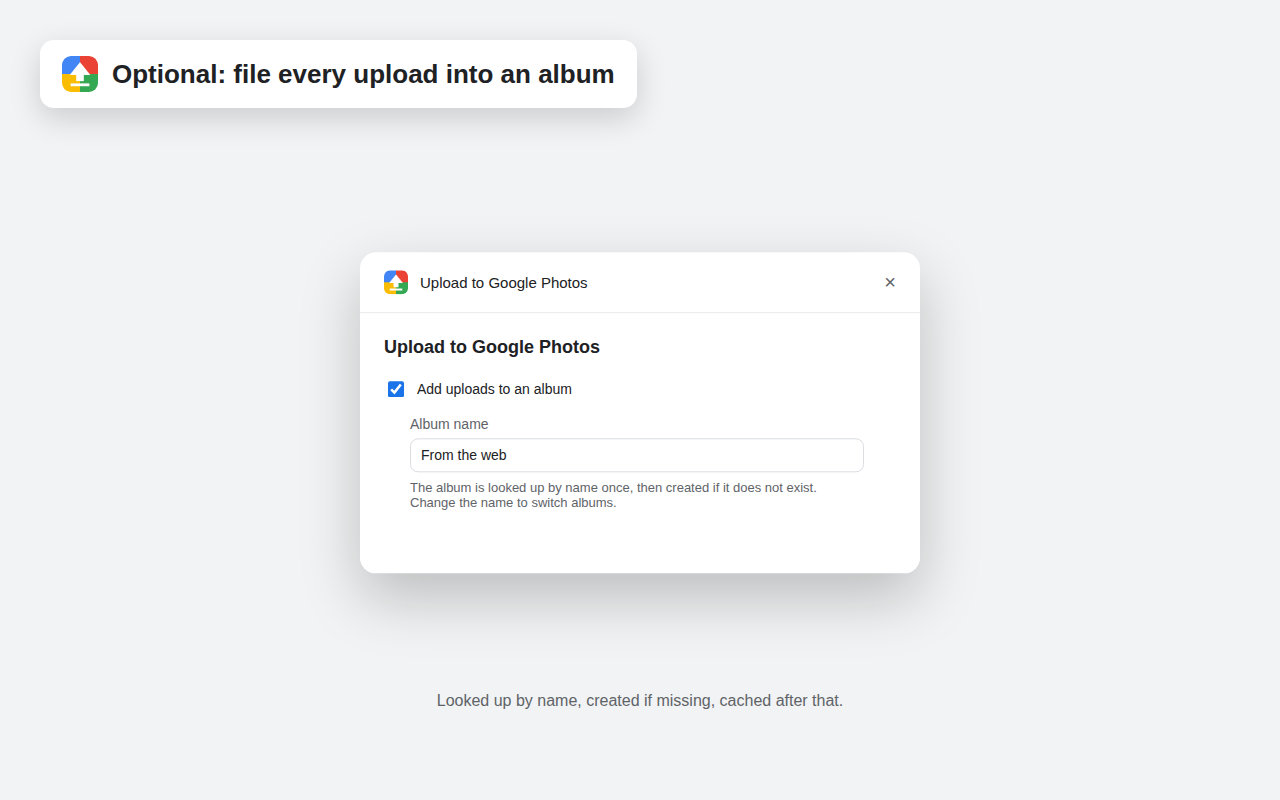
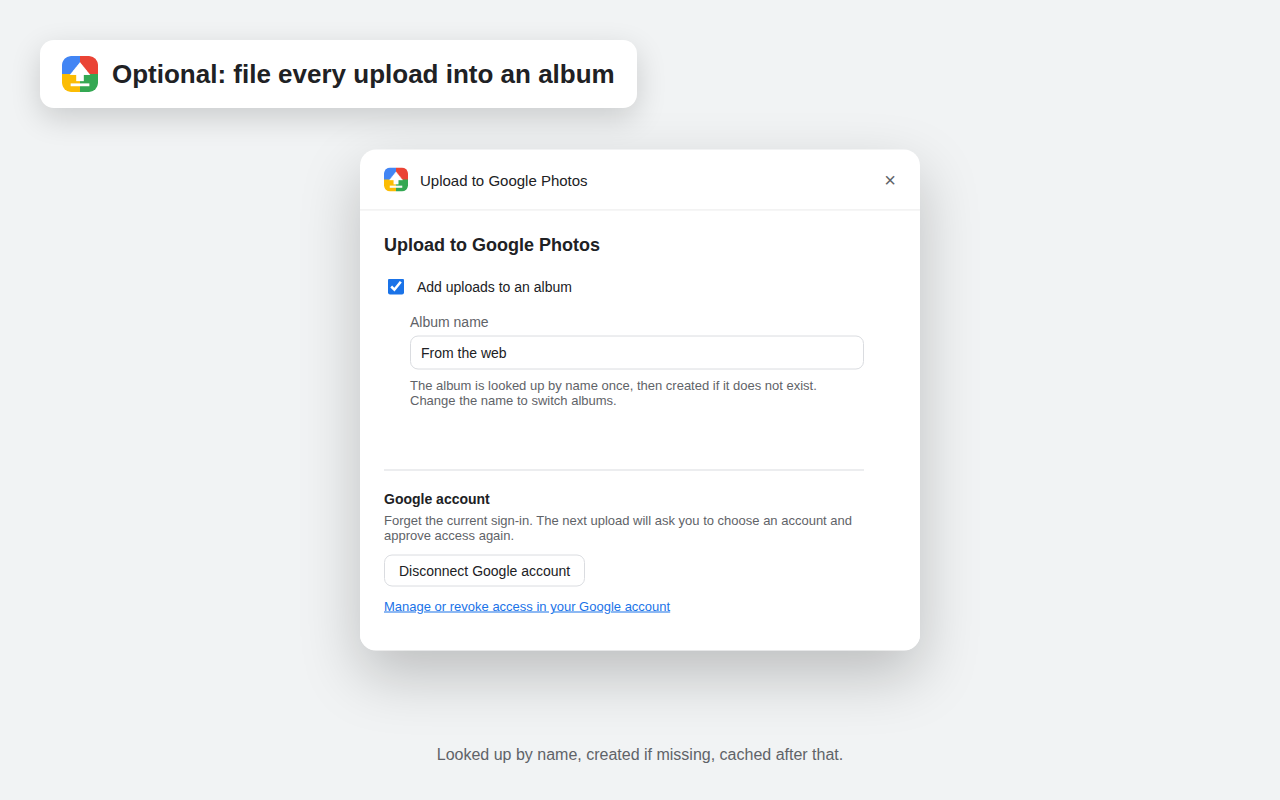
Options: "Disconnect Google account" button
Clears Chrome's cached tokens (chrome.identity.clearAllCachedAuthTokens)
so the next upload shows the account chooser and consent screen again,
with a link to the Google account page for revoking the grant itself.
chrome://identity-internals no longer exists, so this is the only
user-facing way to re-trigger consent. Store screenshot 4 regenerated
to show it.

Claude-Session: https://claude.ai/code/session_017Sx8ma6MN5wVncfmhbF29b

diff --git a/src/options.js b/src/options.js
@@ -7,6 +7,7 @@ const enabledBox = document.getElementById('albumEnabled');
 const nameInput = document.getElementById('albumName');
 const field = document.getElementById('albumField');
 const status = document.getElementById('status');
+const disconnectButton = document.getElementById('disconnect');
 
 function applyStrings() {
   document.title = STRINGS.options.pageTitle;
@@ -15,6 +16,24 @@ function applyStrings() {
   document.getElementById('albumNameLabel').textContent = STRINGS.options.albumNameLabel;
   document.getElementById('albumHint').textContent = STRINGS.options.albumHint;
   nameInput.placeholder = STRINGS.options.albumNamePlaceholder;
+  document.getElementById('accountHeading').textContent = STRINGS.options.accountHeading;
+  document.getElementById('accountHint').textContent = STRINGS.options.accountHint;
+  disconnectButton.textContent = STRINGS.options.disconnect;
+  document.getElementById('manageLink').textContent = STRINGS.options.manageLink;
+}
+
+// Drops every token Chrome has cached for this extension. It does not revoke
+// the grant on Google's side (that needs the account page, linked below), but
+// the service worker treats a missing token as "sign in again", which is what
+// people want when switching accounts or re-testing the consent screen.
+async function disconnect() {
+  disconnectButton.disabled = true;
+  try {
+    await chrome.identity.clearAllCachedAuthTokens();
+    showStatus(STRINGS.options.disconnected, false);
+  } finally {
+    disconnectButton.disabled = false;
+  }
 }
 
 function refreshFieldState() {
@@ -53,6 +72,7 @@ async function save() {
 
 enabledBox.addEventListener('change', () => { refreshFieldState(); save(); });
 nameInput.addEventListener('input', save);
+disconnectButton.addEventListener('click', disconnect);
 
 applyStrings();
 load();

diff --git a/src/options.css b/src/options.css
@@ -45,3 +45,18 @@ h1 { font-size: 18px; font-weight: 600; margin: 0 0 20px; }
 .hint { margin: 8px 0 0; color: var(--muted); font-size: 13px; }
 .status { min-height: 1.4em; margin: 16px 0 0 26px; font-size: 13px; color: var(--ok); }
 .status.error { color: #d93025; }
+.account { margin-top: 28px; padding-top: 20px; border-top: 1px solid var(--border); }
+.account h2 { font-size: 14px; font-weight: 600; margin: 0 0 6px; }
+.account .hint { margin: 0 0 12px; }
+.account button {
+  font: inherit;
+  padding: 7px 14px;
+  border: 1px solid var(--border);
+  border-radius: 8px;
+  background: transparent;
+  color: var(--fg);
+  cursor: pointer;
+}
+.account button:hover { border-color: var(--accent); color: var(--accent); }
+.account button:disabled { opacity: 0.5; cursor: default; }
+.account a { display: block; margin-top: 12px; font-size: 13px; color: var(--accent); }

diff --git a/src/strings.js b/src/strings.js
@@ -38,6 +38,13 @@ export const STRINGS = {
       'Change the name to switch albums.',
     saved: 'Saved',
     albumNameRequired: 'Enter an album name, or untick the box.',
+    accountHeading: 'Google account',
+    accountHint:
+      'Forget the current sign-in. The next upload will ask you to choose an ' +
+      'account and approve access again.',
+    disconnect: 'Disconnect Google account',
+    disconnected: 'Disconnected. The next upload will ask you to sign in.',
+    manageLink: 'Manage or revoke access in your Google account',
   },
 
   // Error messages, keyed by error code. Each one is specific: the toast never

diff --git a/src/options.html b/src/options.html
@@ -22,6 +22,13 @@
     </div>
 
     <p class="status" id="status" aria-live="polite"></p>
+
+    <section class="account">
+      <h2 id="accountHeading"></h2>
+      <p class="hint" id="accountHint"></p>
+      <button type="button" id="disconnect"></button>
+      <a id="manageLink" href="https://myaccount.google.com/connections" target="_blank" rel="noopener noreferrer"></a>
+    </section>
   </main>
   <script type="module" src="options.js"></script>
 </body>
